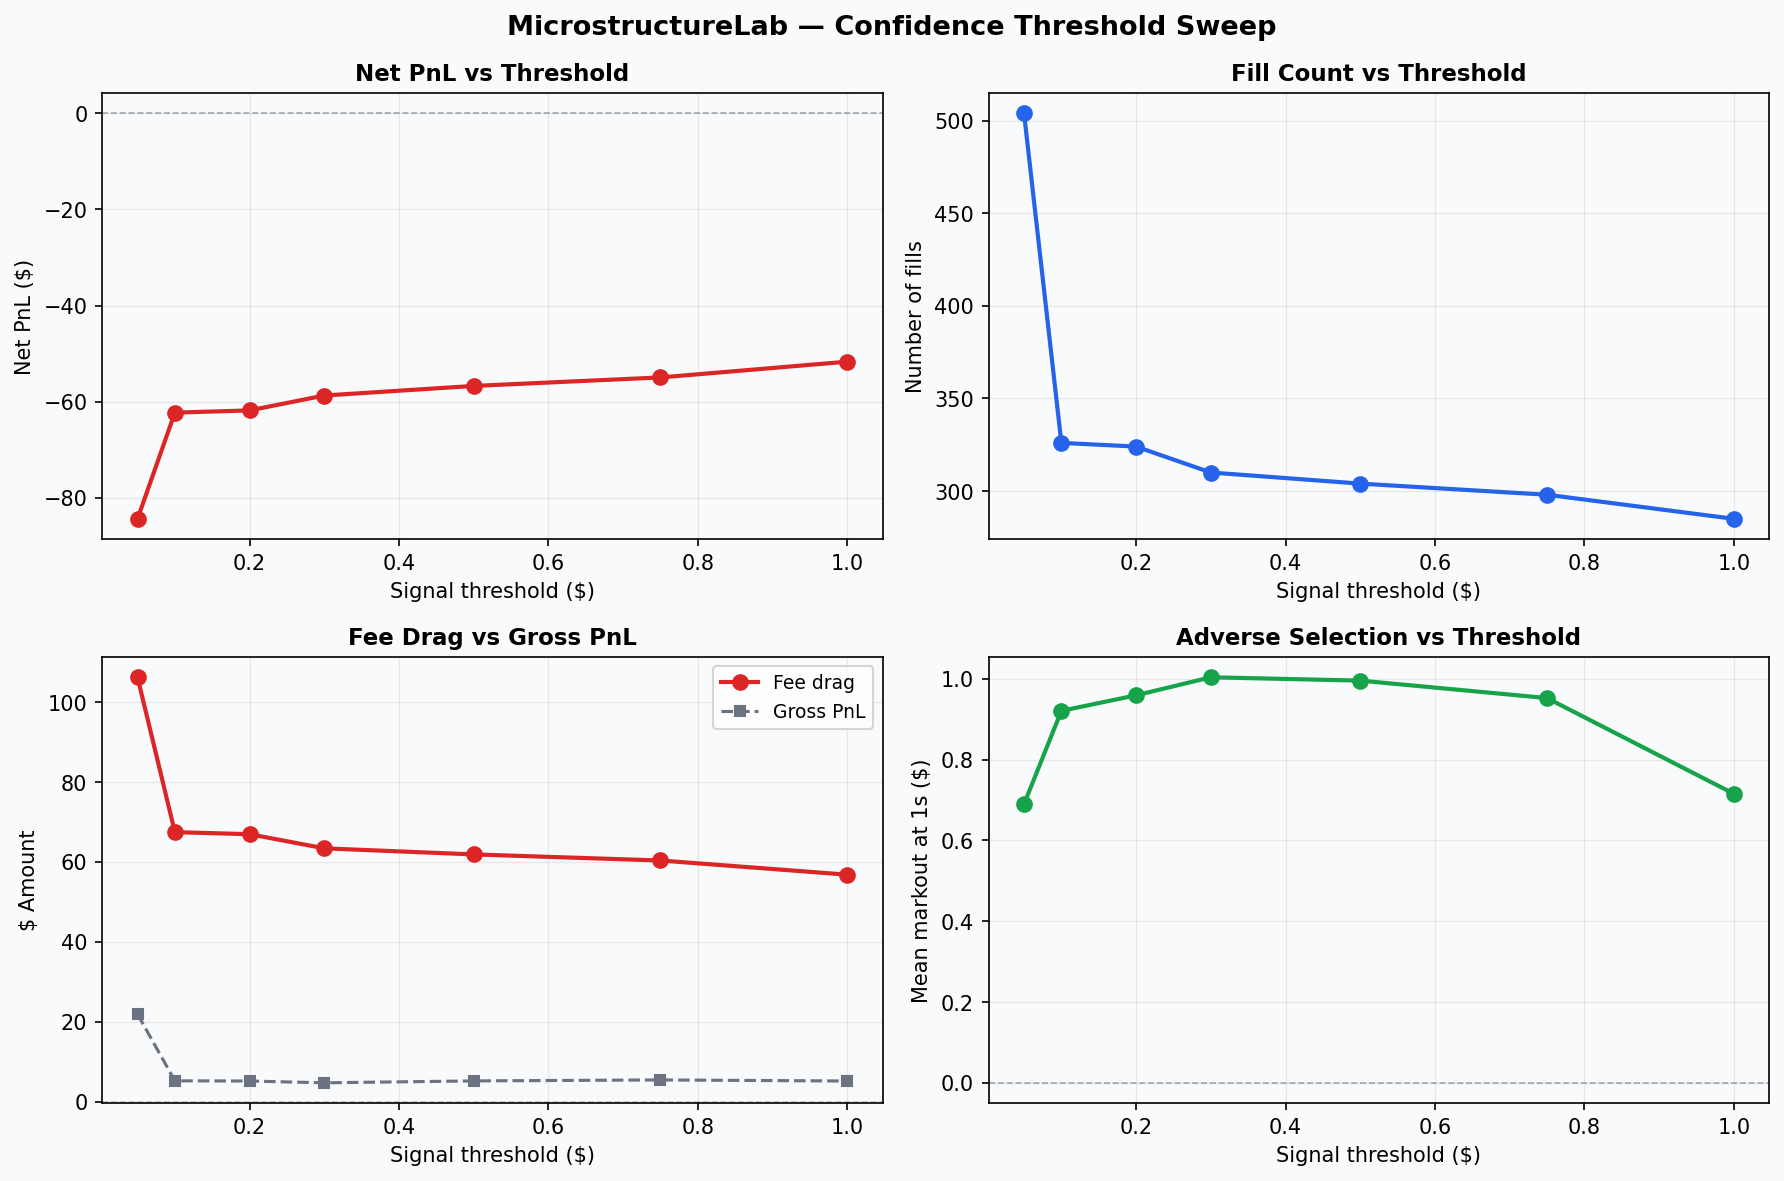
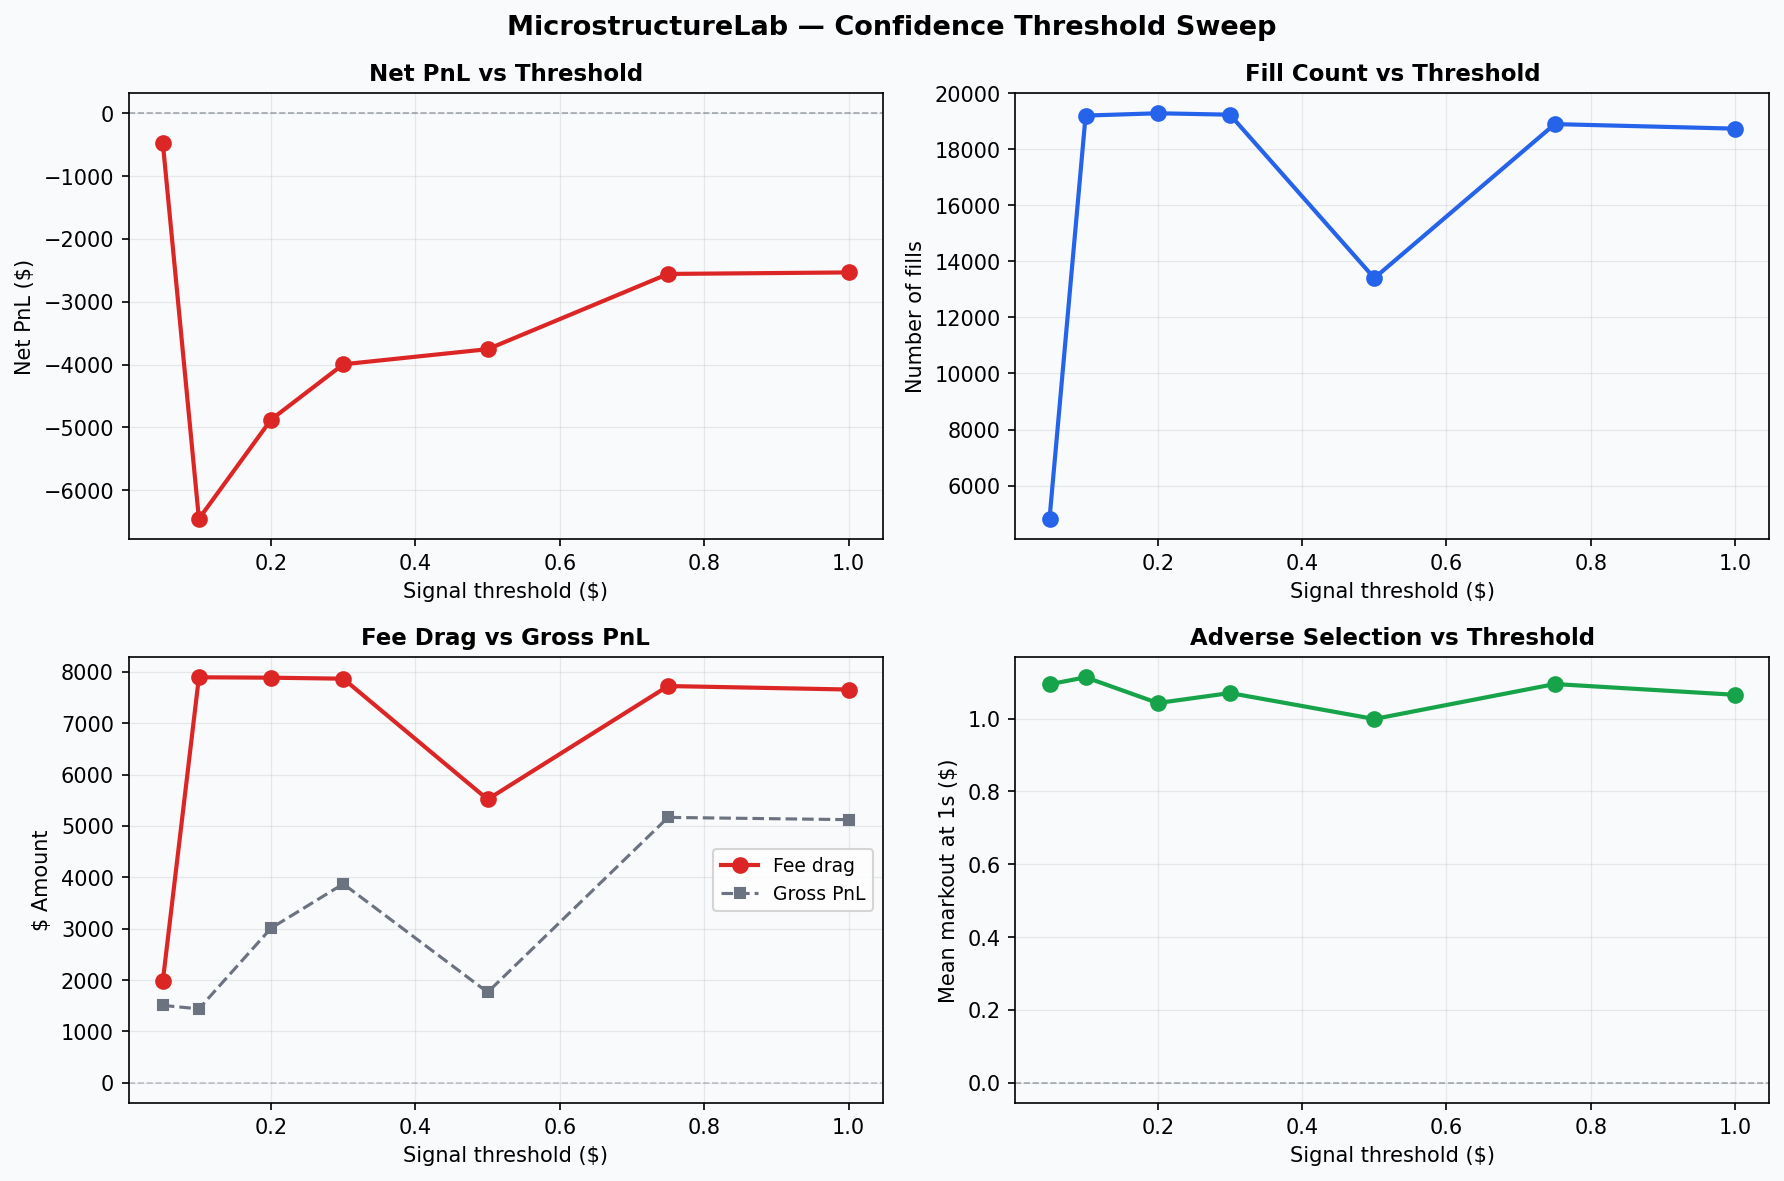
Week 8: full-day threshold and latency sweep results, updated docs

diff --git a/docs/methodology.md b/docs/methodology.md
@@ -134,8 +134,10 @@ Following López de Prado (2018), cross-validation uses:
   IC is inflated by autocorrelated features bleeding across the
   fold boundary.
 
-5-fold purged/embargoed walk-forward CV on BTCUSDT gives
-IC = 0.32 ± 0.04 at the 5-second horizon.
+Walk-forward CV on full-day BTCUSDT gives IC = 0.267 at the
+5-second horizon (NW t-stat = 54.53, 85,078 feature snapshots).
+IC decays to 0.260 at 10s and 0.244 at 20s — consistent with
+a short-horizon microstructure signal.
 
 ### Information Coefficient (IC)
 Pearson correlation between predicted and realized
@@ -147,7 +149,9 @@ IC is computed on overlapping 5-second return windows, inducing
 serial autocorrelation in the IC time series. Standard OLS standard
 errors would understate uncertainty. Newey-West heteroskedasticity
 and autocorrelation consistent (HAC) standard errors correct for
-this, giving a t-statistic of 39.7 at the 5-second horizon.
+this, giving a t-statistic of 54.53 at the 5-second horizon
+(85,078 observations, full trading day).
+
 
 The Newey-West lag truncation is set to `floor(4 * (T/100)^(2/9))`
 following the standard data-driven rule.
@@ -282,7 +286,7 @@ microstructure while micro-price deviation captures trending momentum.
    realistic retail fee level. It would require institutional
    fee tiers (< 0.73 bps) or a higher-frequency signal to
    overcome transaction costs.
-   
+
 3. **1-second signal frequency:** At 1s intervals, latency
    sensitivity is negligible. The strategy is not a latency
    race — it is a microstructure signal research project.